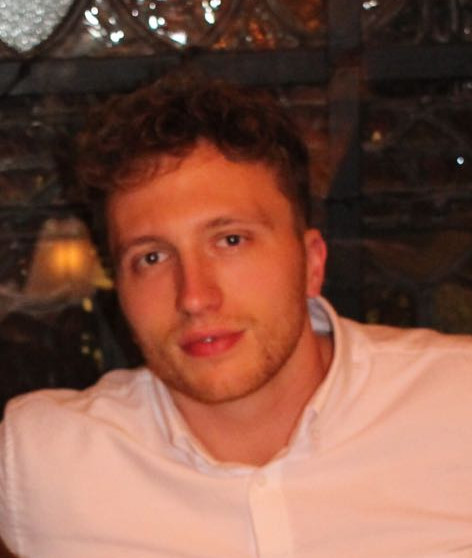
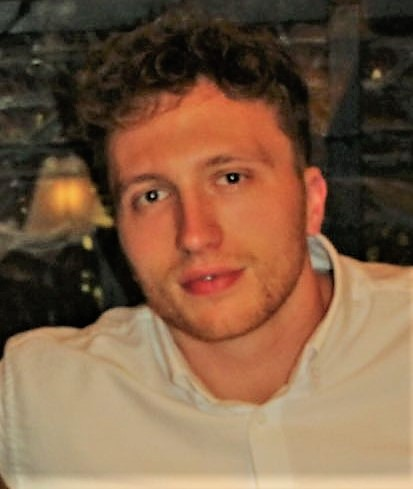
Added new pictures, rsvp button always visible

diff --git a/src/components/RsvpNew/rsvpButton/RsvpButton.js b/src/components/RsvpNew/rsvpButton/RsvpButton.js
@@ -5,6 +5,7 @@ import RsvpHandleForm from '../rsvpForm/RsvpHandleForm.js';
 import ThankyouMessage from '../formCompletion/ThankyouMessage.js'
 import scroll from './scroll.js';
 import Material from '../formCompletion/Material.js';
+import { toast } from 'react-toastify';
 
 class RsvpButton extends React.Component {
 
@@ -18,6 +19,7 @@ class RsvpButton extends React.Component {
             scrollArrow: false,
             offsets:{},
             complete: false,
+            rsvpIncomplete: this.props.showRsvp,
         }
     }
 
@@ -61,6 +63,7 @@ class RsvpButton extends React.Component {
                 buttonClicked: false,
                 thankyouMessage: false,
                 complete: true,
+                rsvpIncomplete: false,
             }))
          },2000)
         return <ThankyouMessage />
@@ -105,22 +108,45 @@ class RsvpButton extends React.Component {
                     <i className='fa fa-envelope-o' aria-hidden='true'/>
                 </div>
             )
+
+      
         }
     }
 
+    fixedButtonDisplay = () => {
+        console.log('here')
+        return (
+             <div className={[css.iconCenter, css.test].join(' ')}> 
+                    <i className='fa fa-check' aria-hidden='true'/>
+                </div>
+        )
+    }
+
+
+
     render () {
+        console.log(this.props.showRsvp)
         const buttonClicked = this.state.buttonClicked;
         const thankyou = this.state.thankyouMessage;
         const formComplete = this.state.complete;
+        const rsvpIncomplete = this.state.rsvpIncomplete;
 
         this.state.buttonClicked === true 
         ? document.getElementById('root').classList.add('lock')
         : document.getElementById('root').classList.remove('lock')
+        
         return (
             <div>
             <div className={this.state.buttonClicked && css.onShade}></div>
-                {formComplete ? 
-                <Material /> :
+                {!rsvpIncomplete ? 
+                <div>
+                    <div className={[css.button, css.fixedGreen].join(' ')} onClick={()=> toast.warning(`We have already received your RSVP. 
+                        If you wish to alter your response, please contact Ben and Katie directly. `)}>
+                        {this.fixedButtonDisplay()}  
+                    </div>
+                </div>  
+                
+                :
                 
                 <div 
                     className={[this.state.buttonClicked && css.formOpen,  css.button].join(' ')}  

diff --git a/src/components/keyPeople/keyPeopleData.js b/src/components/keyPeople/keyPeopleData.js
@@ -14,19 +14,19 @@ let data = {
                             nameClass: css.ericRow,
                         },
                         {
-                            name: 'David Watt',
+                            name: 'Janine Watt',
                             title: 'The Parents',
                             
                             col: css.two,
-                            picClass: css.davidPic,
-                            nameClass: css.davidRow,
-                        },
-                        {
-                            name: 'Janine Watt',
-                            title: 'The Parents',            
-                            col: css.three,
                             picClass: css.janinePic,
                             nameClass: css.janineRow,
+                        },
+                        {
+                            name: 'David Watt',
+                            title: 'The Parents',            
+                            col: css.three,
+                            picClass: css.davidPic,
+                            nameClass: css.davidRow,
                         },
                 ]
             },

diff --git a/src/components/keyPeople/keyPeople-styles.css b/src/components/keyPeople/keyPeople-styles.css
@@ -85,8 +85,8 @@
 
 
 .janinePic {
-    background-image:  url('./images/janine.jpeg');
-    background-position: 0% 25%;
+    background-image:  url('./images/janine1.jpg');
+    /* background-position:  0% -10%; */
 }
 
 .ericPic {
@@ -95,7 +95,7 @@
 }
 
 .sopPic {
-    background-image:  url('./images/soph5.png');
+    background-image:  url('./images/sophie1.jpg');
     background-position: 0% 15%;
 }
 
@@ -105,18 +105,15 @@
 }
 
 .catrionaPic {
-    background-image:  url('./images/catriona.png');        
+    background-image:  url('./images/catriona2.jpg');        
 }
 
 .samPic {
     background-image:  url('./images/sam4.jpeg');
-    background-position: -10% -10%;
-    
-    
 }
 
 .scottPic {
-    background-image:  url('./images/scott.png');
+    background-image:  url('./images/scott.jpg');
 }
 
 @media (min-width: 768px) {

diff --git a/src/components/mainPage/MainPage.js b/src/components/mainPage/MainPage.js
@@ -21,10 +21,11 @@ class MainPage extends React.Component {
         return  (
                 <div>
                 <Nav logout={this.props.logout}/>
-                {this.props.showRsvp && <Rsvp 
+                <Rsvp 
                     guestDetails={this.props.appState.guestDetails} 
                     inviteType={this.props.appState.inviteType} 
-                />}
+                    showRsvp={this.props.showRsvp}
+                />
                     <div className={css.container}>             
                         <Header eventDate={startTime}/>
                         <WhenWhere eventDate={startTime} inviteType={this.props.appState.inviteType}/>

diff --git a/src/components/RsvpNew/formCompletion/Material.js b/src/components/RsvpNew/formCompletion/Material.js
@@ -84,7 +84,7 @@ class CircularFab extends React.Component {
         <Button fab color="primary" className={buttonClass} >
           {success ? <CheckIcon /> :  <i  className={['fa fa-envelope-o', css.icon].join(' ')} aria-hidden='true'/>}
         </Button>
-        {loading && <CircularProgress size={60} className={classes.progress} />}
+        {loading && <CircularProgress size={70} className={classes.progress} />}
       </div>
     );
   }

diff --git a/src/api/mockapi.js b/src/api/mockapi.js
@@ -5,7 +5,7 @@ const api = (function() {
     let obj = {};
 
     const api = axios.create({
-        baseURL: window.location.href + '/api',
+        baseURL: window.location.origin + '/api',
         timeout: 8000,
         headers: {'X-Requested-With': 'XMLHttpRequest'}
     })

diff --git a/src/components/RsvpNew/formCompletion/thankyouMessage-styles.css b/src/components/RsvpNew/formCompletion/thankyouMessage-styles.css
@@ -13,7 +13,7 @@
 .hidden {
     visibility: hidden;
     opacity: 0;
-    transition: visibility 3s ease-in, opacity 3s ease-in;
+    transition: visibility 6s ease-in, opacity 6s ease-in;
 }
 
 .icon {

diff --git a/src/components/RsvpNew/rsvpButton/rsvpButton-styles.css b/src/components/RsvpNew/rsvpButton/rsvpButton-styles.css
@@ -143,6 +143,15 @@
     opacity: 1;
 }
 
+.fixedGreen {
+    background-color: green;
+}
+
+.test {
+    font-weight: lighter;
+}
+
+
 
 
 @media (min-width: 568px) {
